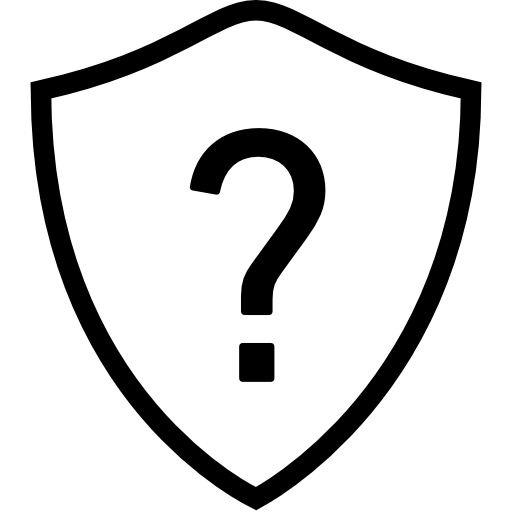
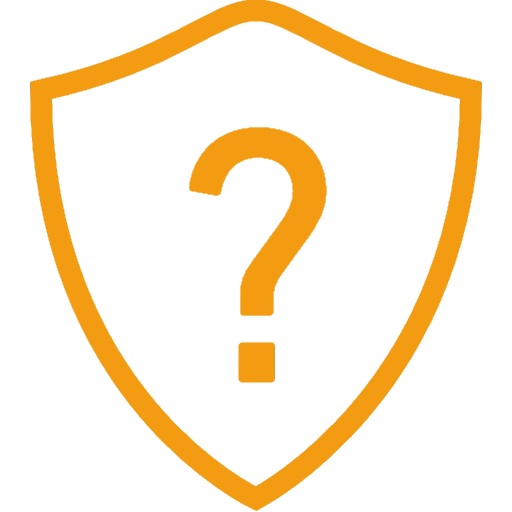
componentes de nav, misiones y footer

Changed region(s): [[0.0312, 0.0, 0.9688, 1.0], [0.3438, 0.25, 0.6562, 0.625], [0.4375, 0.6562, 0.5625, 0.75]]

diff --git a/src/app/footer/footer.component.html b/src/app/footer/footer.component.html
@@ -1,0 +1,126 @@
+<div class="container-fluid footer">
+<div class="row">
+<div class="col-12">
+  
+<!-- Footer -->
+<footer class="page-footer font-small indigo mt-4">
+
+    <!-- Footer Links -->
+    <div class="container">
+  
+      <!-- Grid row-->
+      <div class="row text-center d-flex justify-content-center pt-5 mb-3">
+  
+        <!-- Grid column -->
+        <div class="col-md-2 mb-3">
+          <h6 class="text-uppercase font-weight-bold">
+            <a href="#!">About us</a>
+          </h6>
+        </div>
+        <!-- Grid column -->
+  
+        <!-- Grid column -->
+        <div class="col-md-2 mb-3">
+          <h6 class="text-uppercase font-weight-bold">
+            <a href="#!">Products</a>
+          </h6>
+        </div>
+        <!-- Grid column -->
+  
+        <!-- Grid column -->
+        <div class="col-md-2 mb-3">
+          <h6 class="text-uppercase font-weight-bold">
+            <a href="#!">Awards</a>
+          </h6>
+        </div>
+        <!-- Grid column -->
+  
+        <!-- Grid column -->
+        <div class="col-md-2 mb-3">
+          <h6 class="text-uppercase font-weight-bold">
+            <a href="#!">Help</a>
+          </h6>
+        </div>
+        <!-- Grid column -->
+  
+        <!-- Grid column -->
+        <div class="col-md-2 mb-3">
+          <h6 class="text-uppercase font-weight-bold">
+            <a href="#!">Contact</a>
+          </h6>
+        </div>
+        <!-- Grid column -->
+  
+      </div>
+      <!-- Grid row-->
+      <hr class="rgba-white-light" style="margin: 0 15%;">
+  
+      <!-- Grid row-->
+      <div class="row d-flex text-center justify-content-center mb-md-0 mb-4">
+  
+        <!-- Grid column -->
+        <div class="col-md-8 col-12 mt-5">
+          <p style="line-height: 1.7rem">Sed ut perspiciatis unde omnis iste natus error sit voluptatem accusantium doloremque laudantium, totam rem aperiam, eaque ipsa quae ab illo inventore veritatis et quasi architecto beatae vitae dicta sunt explicabo. Nemo enim ipsam voluptatem quia voluptas sit aspernatur aut odit aut fugit, sed quia consequuntur.</p>
+        </div>
+        <!-- Grid column -->
+  
+      </div>
+      <!-- Grid row-->
+      <hr class="clearfix d-md-none rgba-white-light" style="margin: 10% 15% 5%;">
+  
+      <!-- Grid row-->
+      <div class="row pb-3">
+  
+        <!-- Grid column -->
+        <div class="col-md-12">
+  
+          <div class="mb-5 flex-center">
+  
+            <!-- Facebook -->
+            <a class="fb-ic">
+              <i class="fa fa-facebook fa-lg white-text mr-md-4"> </i>
+            </a>
+            <!-- Twitter -->
+            <a class="tw-ic">
+              <i class="fa fa-twitter fa-lg white-text mr-md-4"> </i>
+            </a>
+            <!-- Google +-->
+            <a class="gplus-ic">
+              <i class="fa fa-google-plus fa-lg white-text mr-md-4"> </i>
+            </a>
+            <!--Linkedin -->
+            <a class="li-ic">
+              <i class="fa fa-linkedin fa-lg white-text mr-md-4"> </i>
+            </a>
+            <!--Instagram-->
+            <a class="ins-ic">
+              <i class="fa fa-instagram fa-lg white-text mr-md-4"> </i>
+            </a>
+            <!--Pinterest-->
+            <a class="pin-ic">
+              <i class="fa fa-pinterest fa-lg white-text"> </i>
+            </a>
+  
+          </div>
+  
+        </div>
+        <!-- Grid column -->
+  
+      </div>
+      <!-- Grid row-->
+  
+    </div>
+    <!-- Footer Links -->
+  
+    <!-- Copyright 
+    <div class="footer-copyright text-center py-3">© 2018 Copyright:
+      <a href="https://mdbootstrap.com/bootstrap-tutorial/"> MDBootstrap.com</a>
+    </div>
+     Copyright -->
+  
+  </footer>
+  <!-- Footer -->
+                        
+</div>
+</div>
+</div>

diff --git a/src/app/navbar/navbar.component.html b/src/app/navbar/navbar.component.html
@@ -1,27 +1,18 @@
-<nav class="navbar navbar-expand-lg navbar-light bg-light">
-  <a class="navbar-brand" href="#">Navbar</a>
-  <button class="navbar-toggler" type="button" data-toggle="collapse" data-target="#navbarSupportedContent" aria-controls="navbarSupportedContent" aria-expanded="false" aria-label="Toggle navigation">
+<nav class="navbar navbar-expand-lg navbar-dark bg-dark nav-wood">
+  <a class="navbar-brand text-white logo" href="#">Misiones Coloniales
+    <img src="../../assets/img/escudo_pregunta_yw.png" alt="">
+  </a>
+  <button class="navbar-toggler ml-5" type="button" data-toggle="collapse" data-target="#navbarSupportedContent" aria-controls="navbarSupportedContent" aria-expanded="false" aria-label="Toggle navigation">
     <span class="navbar-toggler-icon"></span>
   </button>
 
   <div class="collapse navbar-collapse" id="navbarSupportedContent">
-    <ul class="navbar-nav mr-auto">
-      <li class="nav-item active">
-        <a class="nav-link" href="#">Home <span class="sr-only">(current)</span></a>
+    <ul class="navbar-nav mr-auto ">
+      <li class="nav-item active ">
+        <a class="nav-link text-white" href="#">Ingresar</a>
       </li>
-      <li class="nav-item">
-        <a class="nav-link" href="#">Link</a>
-      </li>
-      <li class="nav-item dropdown">
-        <a class="nav-link dropdown-toggle" href="#" id="navbarDropdown" role="button" data-toggle="dropdown" aria-haspopup="true" aria-expanded="false">
-          Dropdown
-        </a>
-        <div class="dropdown-menu" aria-labelledby="navbarDropdown">
-          <a class="dropdown-item" href="#">Action</a>
-          <a class="dropdown-item" href="#">Another action</a>
-          <div class="dropdown-divider"></div>
-          <a class="dropdown-item" href="#">Something else here</a>
-        </div>
+      <li class="nav-item active ">
+        <a class="nav-link text-white" href="#">Registrarse</a>
       </li>
     </ul>
   </div>

diff --git a/src/app/app.component.html b/src/app/app.component.html
@@ -1,21 +1,5 @@
 <!--The content below is only a placeholder and can be replaced.-->
-<div style="text-align:center">
-  <h1>
-    Welcome to {{ title }}!
-  </h1>
[1 lines of base64/hex data omitted]
-</div>
-<h2>Here are some links to help you start: </h2>
-<ul>
-  <li>
-    <h2><a target="_blank" rel="noopener" href="https://angular.io/tutorial">Tour of Heroes</a></h2>
-  </li>
-  <li>
-    <h2><a target="_blank" rel="noopener" href="https://github.com/angular/angular-cli/wiki">CLI Documentation</a></h2>
-  </li>
-  <li>
-    <h2><a target="_blank" rel="noopener" href="https://blog.angular.io/">Angular blog</a></h2>
-  </li>
-</ul>
-
+<app-navbar></app-navbar>
+<app-misiones></app-misiones>
+<app-footer></app-footer>
 <router-outlet></router-outlet>

diff --git a/src/app/misiones/misiones.component.html b/src/app/misiones/misiones.component.html
@@ -1,0 +1,34 @@
+<div class="container">
+  <div class="row justify-content-center">
+    <div class="col-9 col-md-4 m-5">
+      <div class="card text-center borde-image mision">
+  <div class="card-header">
+    <h4>Urgente</h4>
+  </div>
+  <div class="card-body">
+    <h5 class="card-title">Special title treatment</h5>
+    <p class="card-text">With supporting text below as a natural lead-in to additional content.</p>
+    <a href="#" class="btn btn-primary">Tomar</a>
+  </div>
+  <div class="card-footer text-muted">
+    Hace 2 minutos
+  </div>
+</div>
+    </div>
+    <div class="col-9 col-md-4 m-5">
+        <div class="card text-center borde-image mision">
+    <div class="card-header">
+      <h4>Urgente</h4>
+    </div>
+    <div class="card-body">
+      <h5 class="card-title">Special title treatment</h5>
+      <p class="card-text">With supporting text below as a natural lead-in to additional content.</p>
+      <a href="#" class="btn btn-primary">Tomar</a>
+    </div>
+    <div class="card-footer text-muted">
+      Hace 2 minutos
+    </div>
+  </div>
+      </div>
+  </div>
+</div>

diff --git a/src/app/misiones/misiones.component.spec.ts b/src/app/misiones/misiones.component.spec.ts
@@ -1,0 +1,25 @@
+import { async, ComponentFixture, TestBed } from '@angular/core/testing';
+
+import { MisionesComponent } from './misiones.component';
+
+describe('MisionesComponent', () => {
+  let component: MisionesComponent;
+  let fixture: ComponentFixture<MisionesComponent>;
+
+  beforeEach(async(() => {
+    TestBed.configureTestingModule({
+      declarations: [ MisionesComponent ]
+    })
+    .compileComponents();
+  }));
+
+  beforeEach(() => {
+    fixture = TestBed.createComponent(MisionesComponent);
+    component = fixture.componentInstance;
+    fixture.detectChanges();
+  });
+
+  it('should create', () => {
+    expect(component).toBeTruthy();
+  });
+});

diff --git a/src/app/footer/footer.component.spec.ts b/src/app/footer/footer.component.spec.ts
@@ -1,0 +1,25 @@
+import { async, ComponentFixture, TestBed } from '@angular/core/testing';
+
+import { FooterComponent } from './footer.component';
+
+describe('FooterComponent', () => {
+  let component: FooterComponent;
+  let fixture: ComponentFixture<FooterComponent>;
+
+  beforeEach(async(() => {
+    TestBed.configureTestingModule({
+      declarations: [ FooterComponent ]
+    })
+    .compileComponents();
+  }));
+
+  beforeEach(() => {
+    fixture = TestBed.createComponent(FooterComponent);
+    component = fixture.componentInstance;
+    fixture.detectChanges();
+  });
+
+  it('should create', () => {
+    expect(component).toBeTruthy();
+  });
+});

diff --git a/src/app/misiones/misiones.component.scss b/src/app/misiones/misiones.component.scss
@@ -1,0 +1,15 @@
+.mision{
+    background-image: url(../../assets/img/fondo_old_sheet.png);
+    background-repeat:no-repeat;
+    background-size: 100% 100%;
+    padding: 15%;
+    min-width: 18rem;
+}
+.borde-image{
+    border: 50px solid transprent;
+    padding: 5%;
+    -webkit-border-image: url(../../assets/img/old_sheet_marco.png) 30 stretch; /* Safari 3.1-5 */
+    -o-border-image: url(../../assets/img/old_sheet_marco.png) 30 stretch; /* Opera 11-12.1 */
+    border-image: url(../../assets/img/old_sheet_marco.png) 30 stretch;
+    z-index:999; 
+}

diff --git a/src/app/app.module.ts b/src/app/app.module.ts
@@ -4,11 +4,15 @@ import { NgModule } from '@angular/core';
 import { AppRoutingModule } from './app-routing.module';
 import { AppComponent } from './app.component';
 import { NavbarComponent } from './navbar/navbar.component';
+import { MisionesComponent } from './misiones/misiones.component';
+import { FooterComponent } from './footer/footer.component';
 
 @NgModule({
   declarations: [
     AppComponent,
-    NavbarComponent
+    NavbarComponent,
+    MisionesComponent,
+    FooterComponent
   ],
   imports: [
     BrowserModule,

diff --git a/src/app/misiones/misiones.component.ts b/src/app/misiones/misiones.component.ts
@@ -1,0 +1,15 @@
+import { Component, OnInit } from '@angular/core';
+
+@Component({
+  selector: 'app-misiones',
+  templateUrl: './misiones.component.html',
+  styleUrls: ['./misiones.component.scss']
+})
+export class MisionesComponent implements OnInit {
+
+  constructor() { }
+
+  ngOnInit() {
+  }
+
+}

diff --git a/src/app/footer/footer.component.ts b/src/app/footer/footer.component.ts
@@ -1,0 +1,15 @@
+import { Component, OnInit } from '@angular/core';
+
+@Component({
+  selector: 'app-footer',
+  templateUrl: './footer.component.html',
+  styleUrls: ['./footer.component.scss']
+})
+export class FooterComponent implements OnInit {
+
+  constructor() { }
+
+  ngOnInit() {
+  }
+
+}

diff --git a/src/styles.scss b/src/styles.scss
@@ -1,1 +1,9 @@
 /* You can add global styles to this file, and also import other style files */
+body{
+    background-image: url("assets/img/bg_body.jpg");
+    background-repeat: no-repeat;
+    background-size: 100% 100%;
+
+   // background-color: burlywood;
+    
+}

diff --git a/src/app/navbar/navbar.component.scss b/src/app/navbar/navbar.component.scss
@@ -1,0 +1,9 @@
+.nav-wood{
+    background-image: url(../../assets/img/wood_navbar.png);
+    background-repeat: no-repeat;
+    background-size: 100% 100%;
+}
+.logo{
+    margin-right: 50%;
+    margin-left: 10%;
+}
